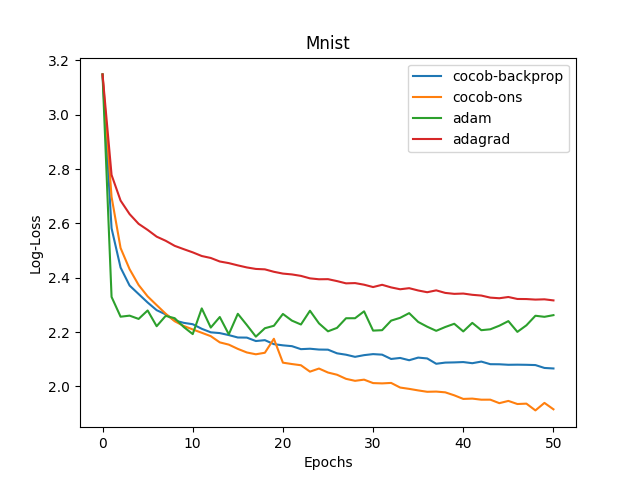
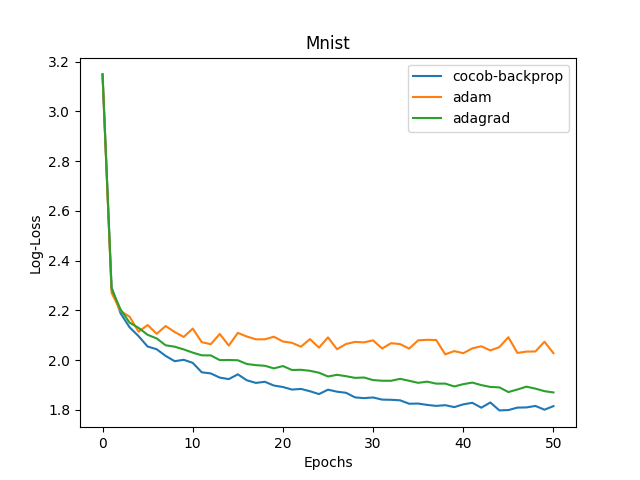
Update runs and remove cocob-ons from comparison for now.

diff --git a/cifar_optimize.py b/cifar_optimize.py
@@ -97,9 +97,8 @@ def compute_epoch_loss():
 
 name_optimizers = [
             ('cocob-backprop', cocob.CocobBackprop(model.parameters())),
-            ('cocob-ons', cocob.CocobOns(model.parameters())),
-            ('adam', torch.optim.Adam(model.parameters(), lr=0.01)),
-            ('adagrad', torch.optim.Adagrad(model.parameters(), lr=0.001))
+            ('adam', torch.optim.Adam(model.parameters(), lr=0.005)),
+            ('adagrad', torch.optim.Adagrad(model.parameters()))
         ]
 
 

diff --git a/mnist_optimize.py b/mnist_optimize.py
@@ -92,9 +92,8 @@ def compute_epoch_loss():
 
 name_optimizers = [
             ('cocob-backprop', cocob.CocobBackprop(model.parameters())),
-            ('cocob-ons', cocob.CocobOns(model.parameters())),
-            ('adam', torch.optim.Adam(model.parameters(), lr=0.01)),
-            ('adagrad', torch.optim.Adagrad(model.parameters(), lr=0.001))
+            ('adam', torch.optim.Adam(model.parameters(), lr=0.005)),
+            ('adagrad', torch.optim.Adagrad(model.parameters()))
         ]
 
 
